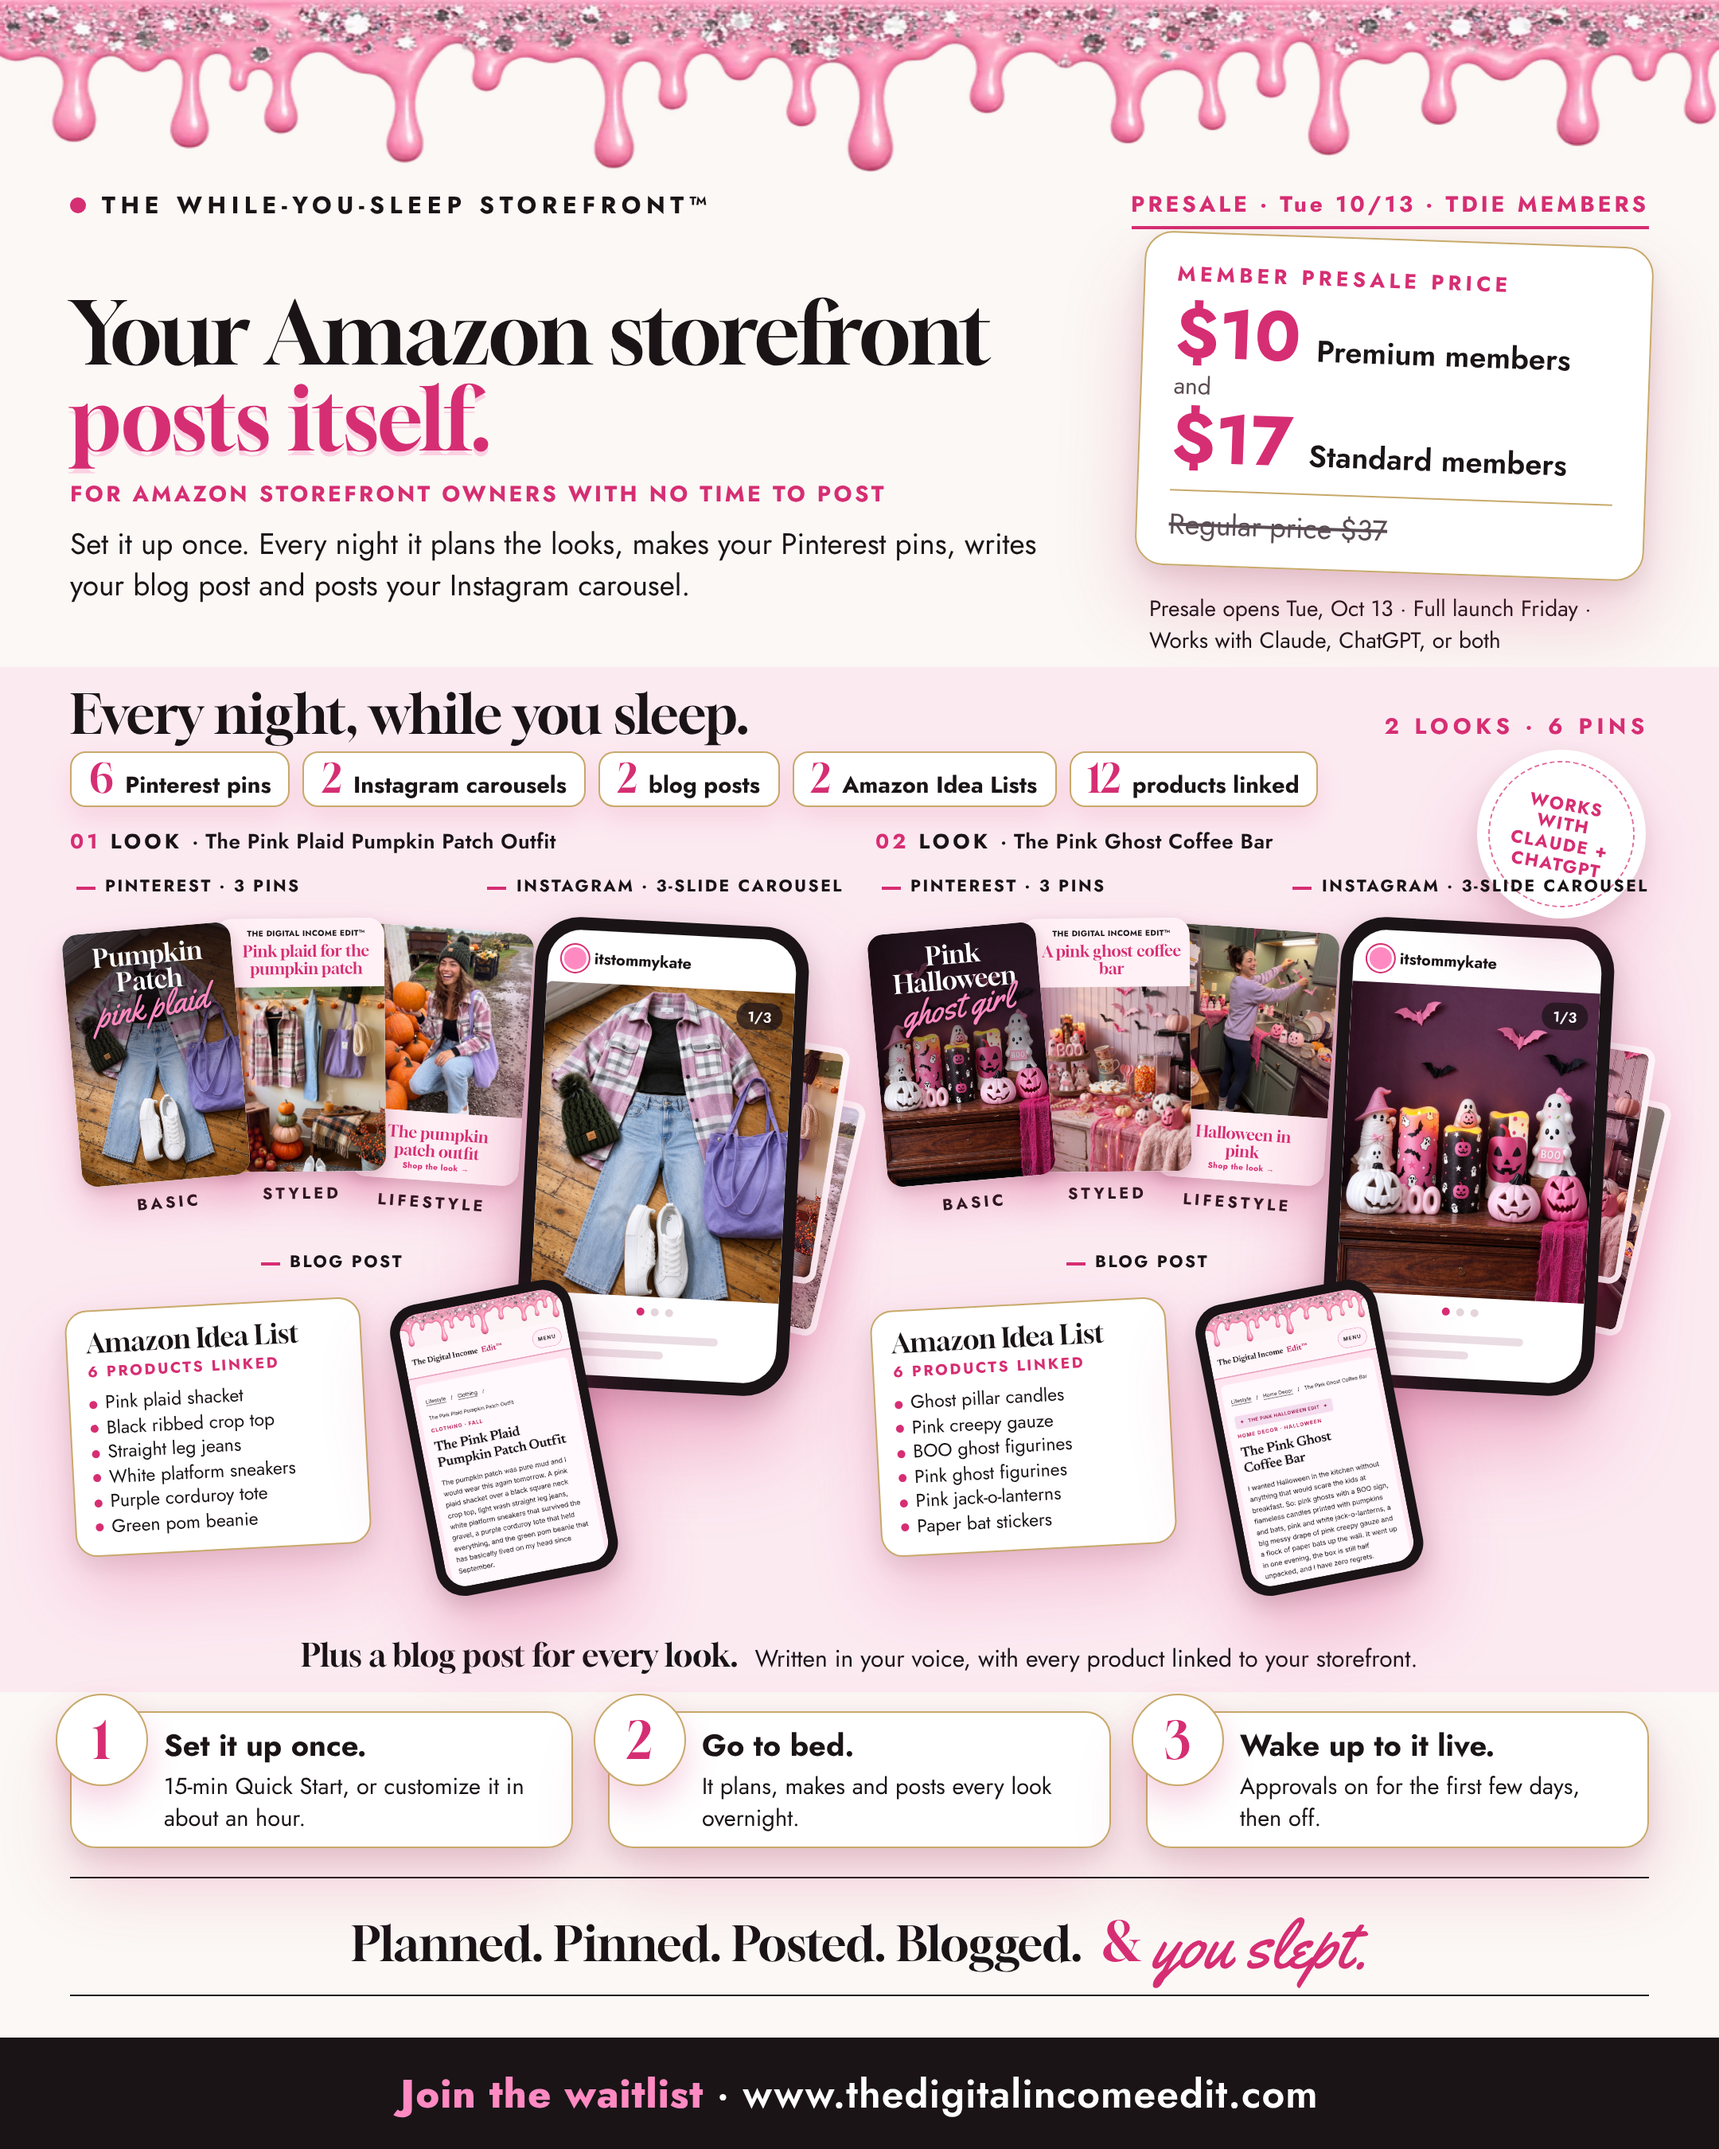
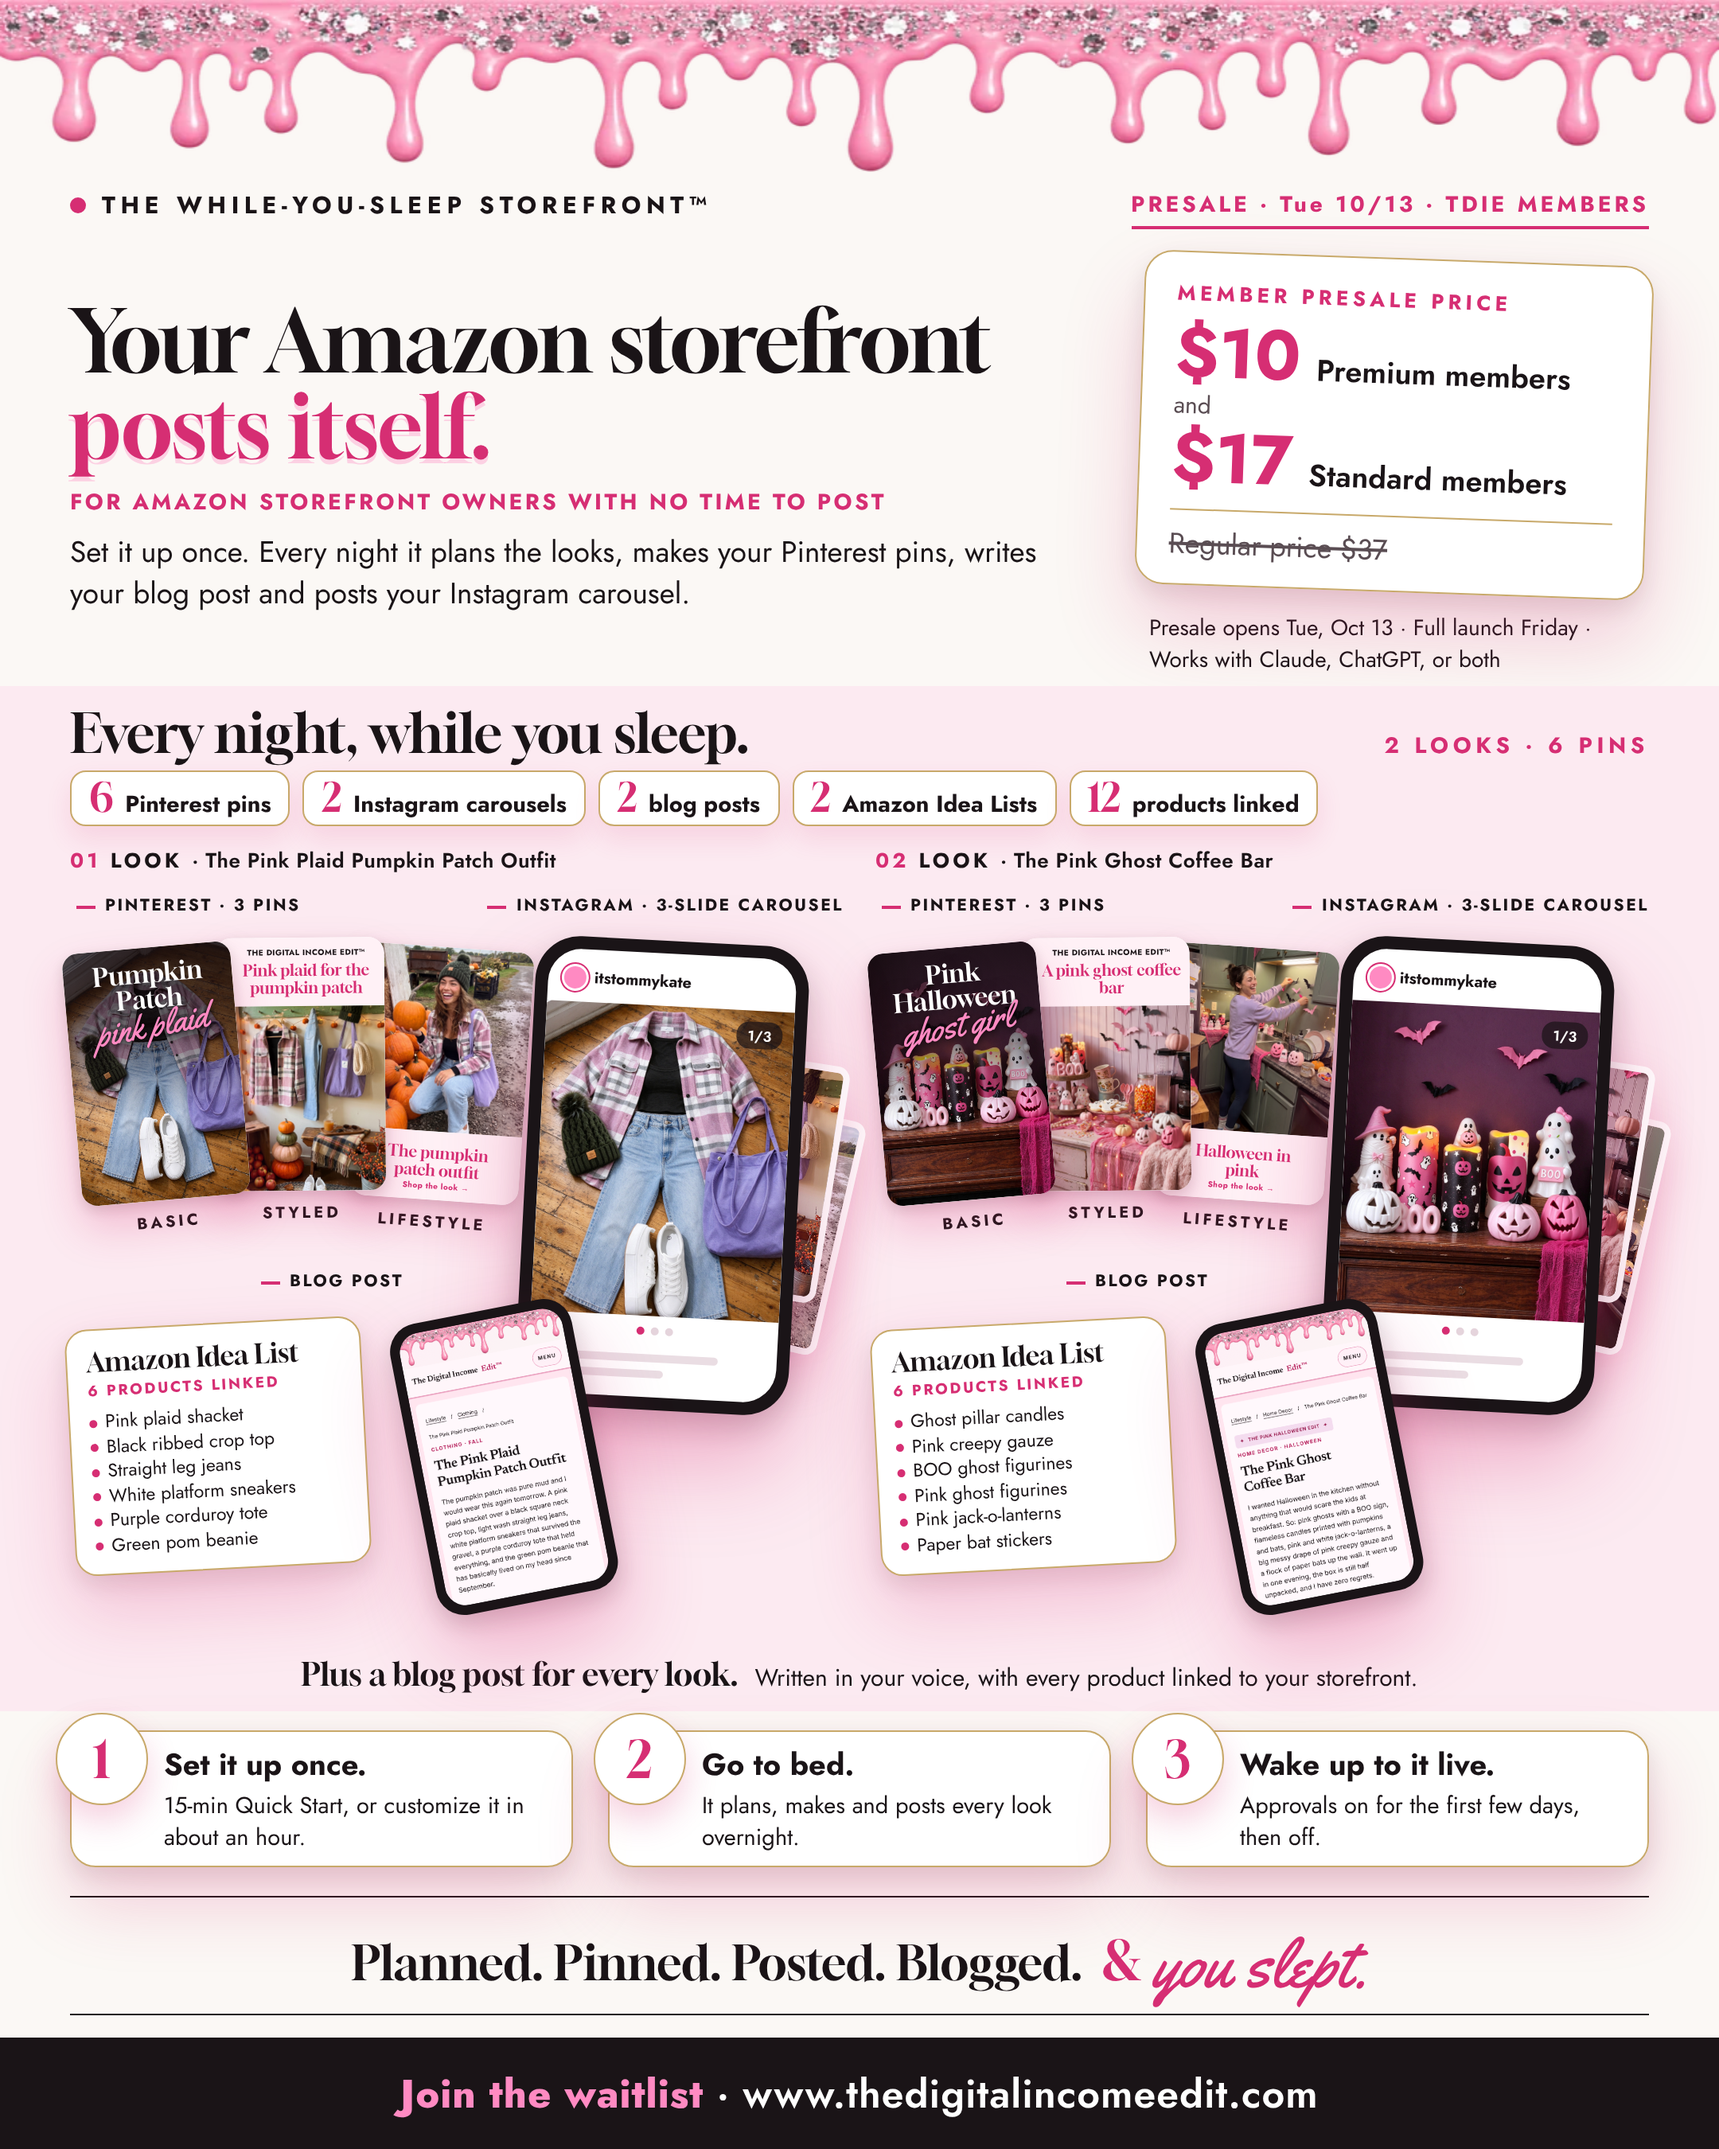
WYS poster: remove sticker overlapping the Instagram label; space price card from badge
Claude-Session: https://claude.ai/code/session_01PnXq8563XBZe9JqR7UM4ct

Changed region(s): [[0.031, 0.3111, 0.9926, 0.9333], [0.031, 0.1244, 0.5894, 0.28], [0.6514, 0.1244, 0.9616, 0.3733]]

diff --git a/ops/posters/wys-presale-2026-10/poster.html b/ops/posters/wys-presale-2026-10/poster.html
@@ -406,6 +406,9 @@ h2 { font-family:"Gloock",serif; font-weight:400; font-size:38px; line-height:1.
 .comp .pin .k { letter-spacing:0.04em; font-size:5px; }
 .cpin.p2 { left:92px; } .cpin.p3 { left:180px; }
 .pin-bot { padding-right:12px !important; }
+.hero-st { display:none !important; }
+.fb .price-wrap { margin-top:14px; }
+.fb .topline { padding-bottom:4px; }
 </style>
 </head>
 <body>
